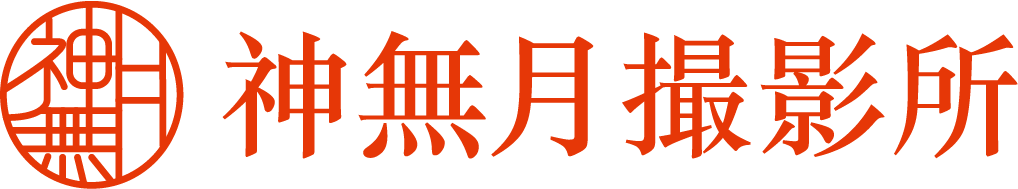
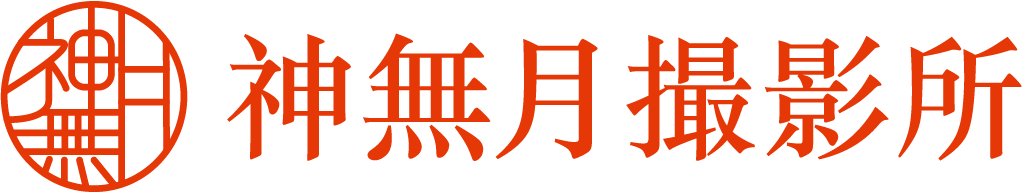
修改logo圖片

diff --git a/choose3.html b/choose3.html
@@ -169,7 +169,7 @@
     </div>
         
     <div class="text-center mb-5">
-      <a href="book.html?item=3" class="btn btn-lg btn-common btn-effect wow fadeInRight" data-wow-delay="0.9s">預約該攝影棚</a>
+      <a href="book.html?item=3141" class="btn btn-lg btn-common btn-effect wow fadeInRight" data-wow-delay="0.9s">預約該攝影棚</a>
     </div>
 
     <!-- Footer Section Start -->
@@ -180,7 +180,7 @@
           <div class="row">
             <div class="col-md-2 col-sm-6 col-xs-6 col-mb-12">
               <h3>
-                <img src="img/logo1_white.png" width="100" alt="logo" />
+                <img src="img/logo1_gray.png" width="100" alt="logo" />
               </h3>
               <div class="textwidget">
                 <!-- <p>aaaa dkalsjl jkjdaskjfkadkf ljkasj fkdjklj flksad</p> -->

diff --git a/index.html b/index.html
@@ -145,7 +145,7 @@
           <div class="col-4">
           </div>
           <div class="col-4">
-            <img src="img/logo1_white.png" width="100" alt="logo" />
+            <img src="img/logo1_gray.png" width="100" alt="logo" />
             <span class="px-3"></span>
             關於神無月撮影所，以下(略)
           </div>
@@ -310,7 +310,7 @@
           <div class="row">
             <div class="col-md-2 col-sm-6 col-xs-6 col-mb-12">
               <h3>
-                <img src="img/logo1_white.png" width="100" alt="logo" />
+                <img src="img/logo1_gray.png" width="100" alt="logo" />
               </h3>
               <div class="textwidget">
                 <!-- <p>aaaa dkalsjl jkjdaskjfkadkf ljkasj fkdjklj flksad</p> -->

diff --git a/book.html b/book.html
@@ -140,7 +140,7 @@
           <div class="row">
             <div class="col-md-2 col-sm-6 col-xs-6 col-mb-12">
               <h3>
-                <img src="img/logo1_white.png" width="100" alt="logo" />
+                <img src="img/logo1_gray.png" width="100" alt="logo" />
               </h3>
               <div class="textwidget">
                 <!-- <p>aaaa dkalsjl jkjdaskjfkadkf ljkasj fkdjklj flksad</p> -->

diff --git a/choose.html b/choose.html
@@ -169,7 +169,7 @@
           <div class="row">
             <div class="col-md-2 col-sm-6 col-xs-6 col-mb-12">
               <h3>
-                <img src="img/logo1_white.png" width="100" alt="logo" />
+                <img src="img/logo1_gray.png" width="100" alt="logo" />
               </h3>
               <div class="textwidget">
                 <!-- <p>aaaa dkalsjl jkjdaskjfkadkf ljkasj fkdjklj flksad</p> -->

diff --git a/choose1.html b/choose1.html
@@ -170,7 +170,7 @@
           <div class="row">
             <div class="col-md-2 col-sm-6 col-xs-6 col-mb-12">
               <h3>
-                <img src="img/logo1_white.png" width="100" alt="logo" />
+                <img src="img/logo1_gray.png" width="100" alt="logo" />
               </h3>
               <div class="textwidget">
                 <!-- <p>aaaa dkalsjl jkjdaskjfkadkf ljkasj fkdjklj flksad</p> -->

diff --git a/choose2.html b/choose2.html
@@ -180,7 +180,7 @@
           <div class="row">
             <div class="col-md-2 col-sm-6 col-xs-6 col-mb-12">
               <h3>
-                <img src="img/logo1_white.png" width="100" alt="logo" />
+                <img src="img/logo1_gray.png" width="100" alt="logo" />
               </h3>
               <div class="textwidget">
                 <!-- <p>aaaa dkalsjl jkjdaskjfkadkf ljkasj fkdjklj flksad</p> -->
